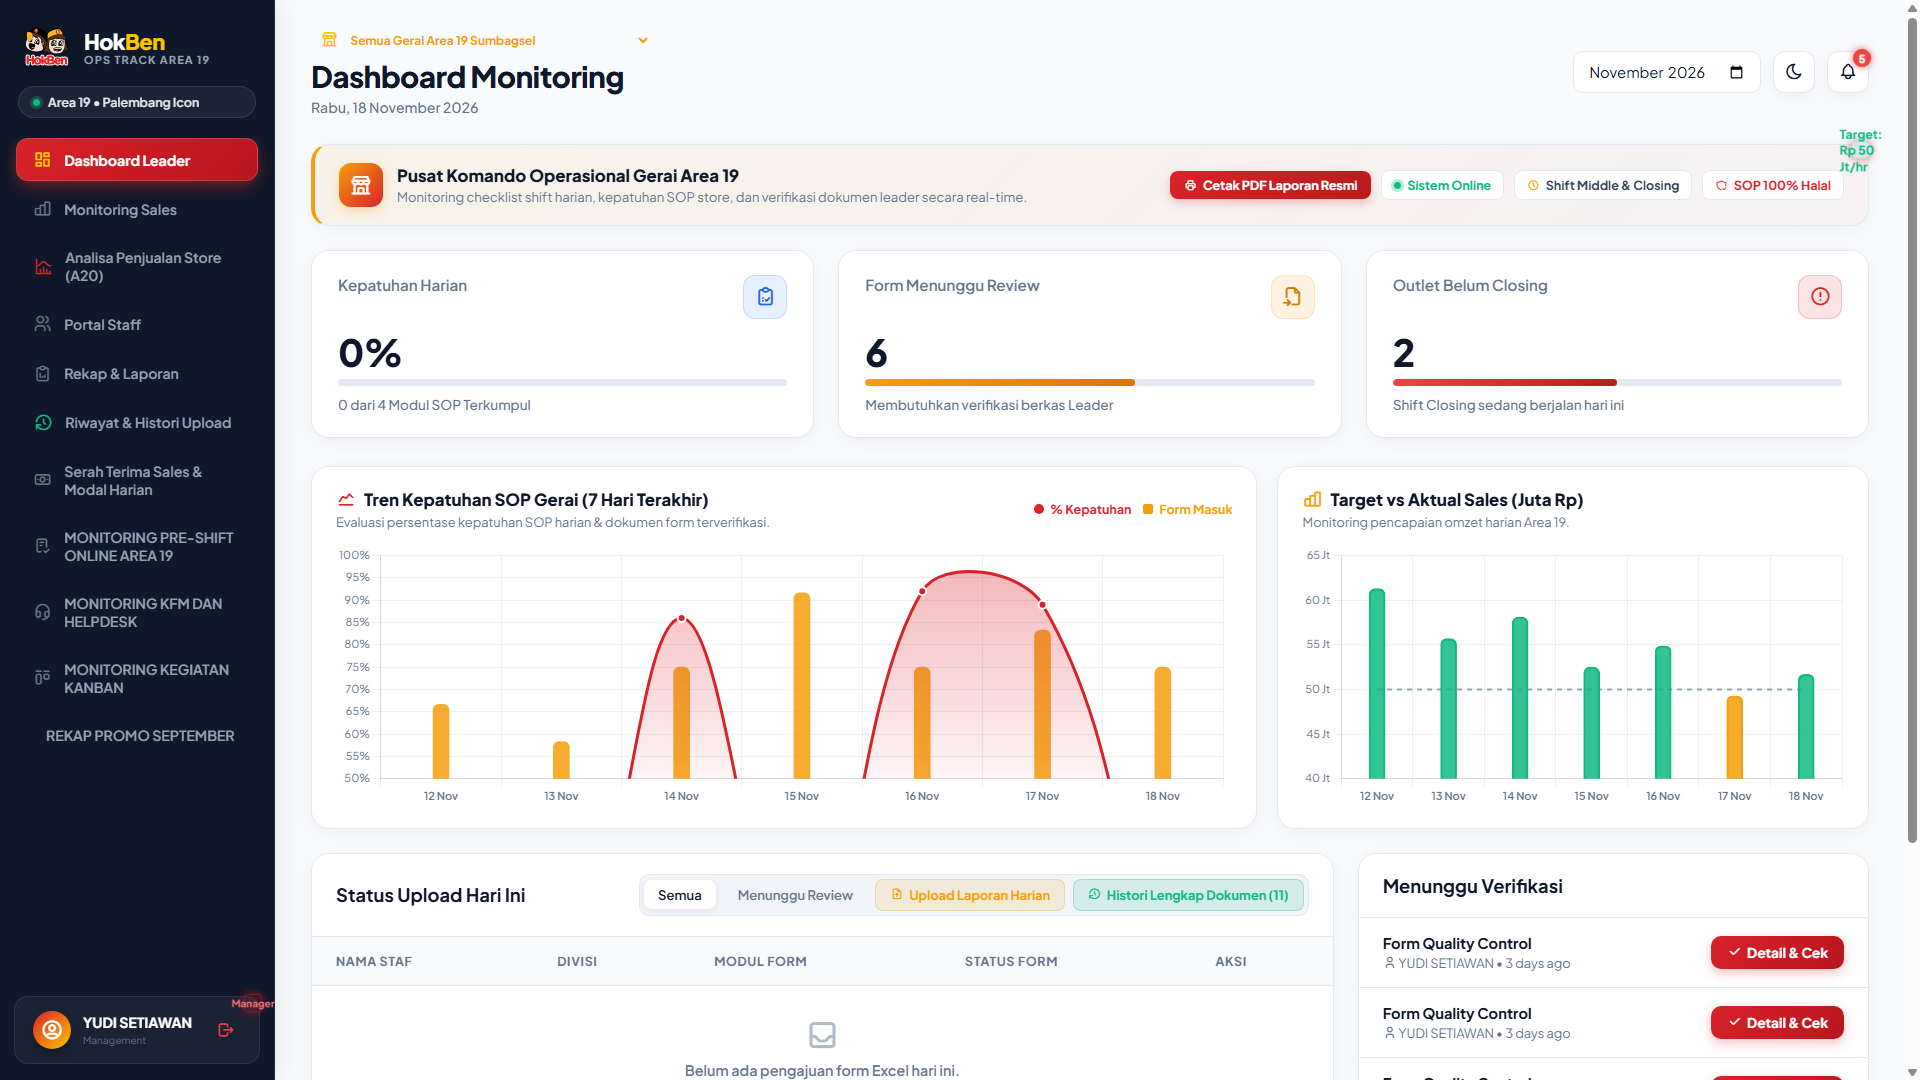
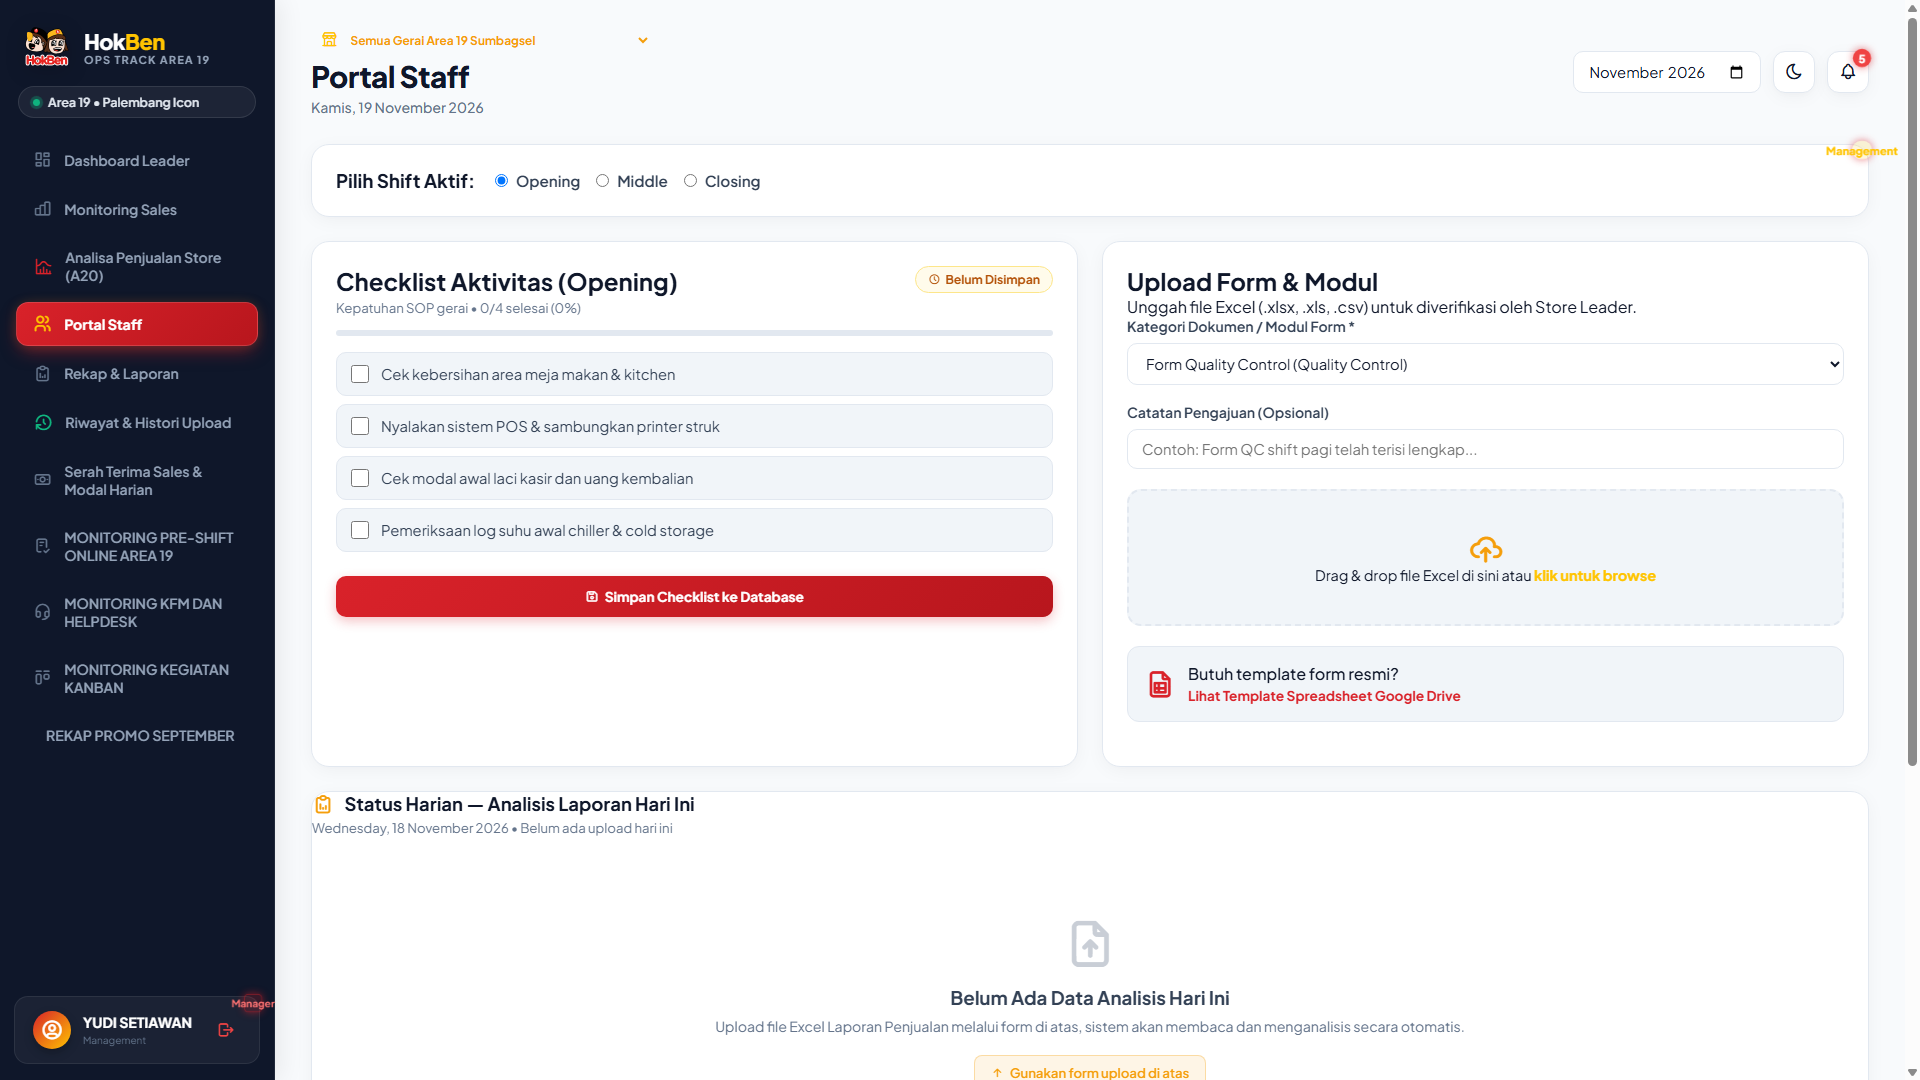
fix: perbarui screenshot asli 13 halaman dengan konten dan layout unik masing-masing modul

diff --git a/resources/views/welcome.blade.php b/resources/views/welcome.blade.php
@@ -21,6 +21,30 @@
             document.documentElement.setAttribute('data-theme', savedTheme);
         })();
     </script>
+
+    @php
+        $targetTab = request('view', request('section', 'dashboard'));
+        $tabTitles = [
+            'dashboard' => 'Dashboard Leader',
+            'sales' => 'Monitoring Sales',
+            'analisa-penjualan' => 'Analisa Penjualan Store (A20)',
+            'staff-portal' => 'Portal Staff',
+            'reports' => 'Rekap & Laporan',
+            'upload-history-view' => 'Riwayat & Histori Upload',
+            'serah-terima' => 'Serah Terima Sales & Modal Harian',
+            'monitoring-preshift-area19' => 'MONITORING PRE-SHIFT ONLINE AREA 19',
+            'monitoring-kfm-helpdesk' => 'MONITORING KFM DAN HELPDESK',
+            'monitoring-kegiatan' => 'MONITORING KEGIATAN KANBAN',
+            'promo-sep' => 'REKAP PROMO SEPTEMBER',
+        ];
+        $currentTabTitle = $tabTitles[$targetTab] ?? 'Dashboard Monitoring';
+    @endphp
+    @if($targetTab && $targetTab !== 'dashboard')
+    <style>
+        .view-section { display: none !important; opacity: 0 !important; }
+        #view-{{ $targetTab }} { display: block !important; opacity: 1 !important; visibility: visible !important; }
+    </style>
+    @endif
 </head>
 <body>
     <!-- Mobile Sidebar Backdrop Overlay -->
@@ -48,37 +72,37 @@
             </div>
 
             <nav class="nav-menu">
-                <a href="#" class="nav-link active" data-target="dashboard">
+                <a href="#" class="nav-link {{ $targetTab === 'dashboard' ? 'active' : '' }}" data-target="dashboard">
                     <i class="ti ti-layout-dashboard"></i> Dashboard Leader
                 </a>
-                <a href="#" class="nav-link" data-target="sales">
+                <a href="#" class="nav-link {{ $targetTab === 'sales' ? 'active' : '' }}" data-target="sales">
                     <i class="ti ti-chart-bar"></i> Monitoring Sales
                 </a>
-                <a href="#" class="nav-link" data-target="analisa-penjualan" style="border-left: 2px solid transparent; transition: border-color 0.2s;">
+                <a href="#" class="nav-link {{ $targetTab === 'analisa-penjualan' ? 'active' : '' }}" data-target="analisa-penjualan" style="border-left: 2px solid transparent; transition: border-color 0.2s;">
                     <i class="ti ti-chart-histogram" style="color: #D9222A;"></i> Analisa Penjualan Store (A20)
                 </a>
-                <a href="#" class="nav-link" data-target="staff-portal">
+                <a href="#" class="nav-link {{ $targetTab === 'staff-portal' ? 'active' : '' }}" data-target="staff-portal">
                     <i class="ti ti-users"></i> Portal Staff
                 </a>
-                <a href="#" class="nav-link" data-target="reports">
+                <a href="#" class="nav-link {{ $targetTab === 'reports' ? 'active' : '' }}" data-target="reports">
                     <i class="ti ti-report-analytics"></i> Rekap & Laporan
                 </a>
-                <a href="#" class="nav-link" data-target="upload-history-view" style="border-left: 2px solid transparent; transition: border-color 0.2s;">
+                <a href="#" class="nav-link {{ $targetTab === 'upload-history-view' ? 'active' : '' }}" data-target="upload-history-view" style="border-left: 2px solid transparent; transition: border-color 0.2s;">
                     <i class="ti ti-history" style="color: #10b981;"></i> Riwayat &amp; Histori Upload
                 </a>
-                <a href="#" class="nav-link" data-target="serah-terima">
+                <a href="#" class="nav-link {{ $targetTab === 'serah-terima' ? 'active' : '' }}" data-target="serah-terima">
                     <i class="ti ti-cash-banknote"></i> Serah Terima Sales & Modal Harian
                 </a>
-                <a href="#" class="nav-link" data-target="monitoring-preshift-area19">
+                <a href="#" class="nav-link {{ $targetTab === 'monitoring-preshift-area19' ? 'active' : '' }}" data-target="monitoring-preshift-area19">
                     <i class="ti ti-checklist"></i> MONITORING PRE-SHIFT ONLINE AREA 19
                 </a>
-                <a href="#" class="nav-link" data-target="monitoring-kfm-helpdesk">
+                <a href="#" class="nav-link {{ $targetTab === 'monitoring-kfm-helpdesk' ? 'active' : '' }}" data-target="monitoring-kfm-helpdesk">
                     <i class="ti ti-headset"></i> MONITORING KFM DAN HELPDESK
                 </a>
-                <a href="#" class="nav-link" data-target="monitoring-kegiatan">
+                <a href="#" class="nav-link {{ $targetTab === 'monitoring-kegiatan' ? 'active' : '' }}" data-target="monitoring-kegiatan">
                     <i class="ti ti-layout-kanban"></i> MONITORING KEGIATAN KANBAN
                 </a>
-                <a href="#" class="nav-link" data-target="promo-sep" style="border-left: 2px solid transparent; transition: border-color 0.2s;">
+                <a href="#" class="nav-link {{ $targetTab === 'promo-sep' ? 'active' : '' }}" data-target="promo-sep" style="border-left: 2px solid transparent; transition: border-color 0.2s;">
                     <i class="ti ti-rosette-discount" style="color: #F59E0B;"></i> REKAP PROMO SEPTEMBER
                 </a>
             </nav>
@@ -137,7 +161,7 @@
                                 </select>
                             </div>
                         </form>
-                        <h1 id="current-page-title">Dashboard Monitoring</h1>
+                        <h1 id="current-page-title">{{ $currentTabTitle }}</h1>
                         <p class="date" id="current-date"></p>
                     </div>
                 </div>
